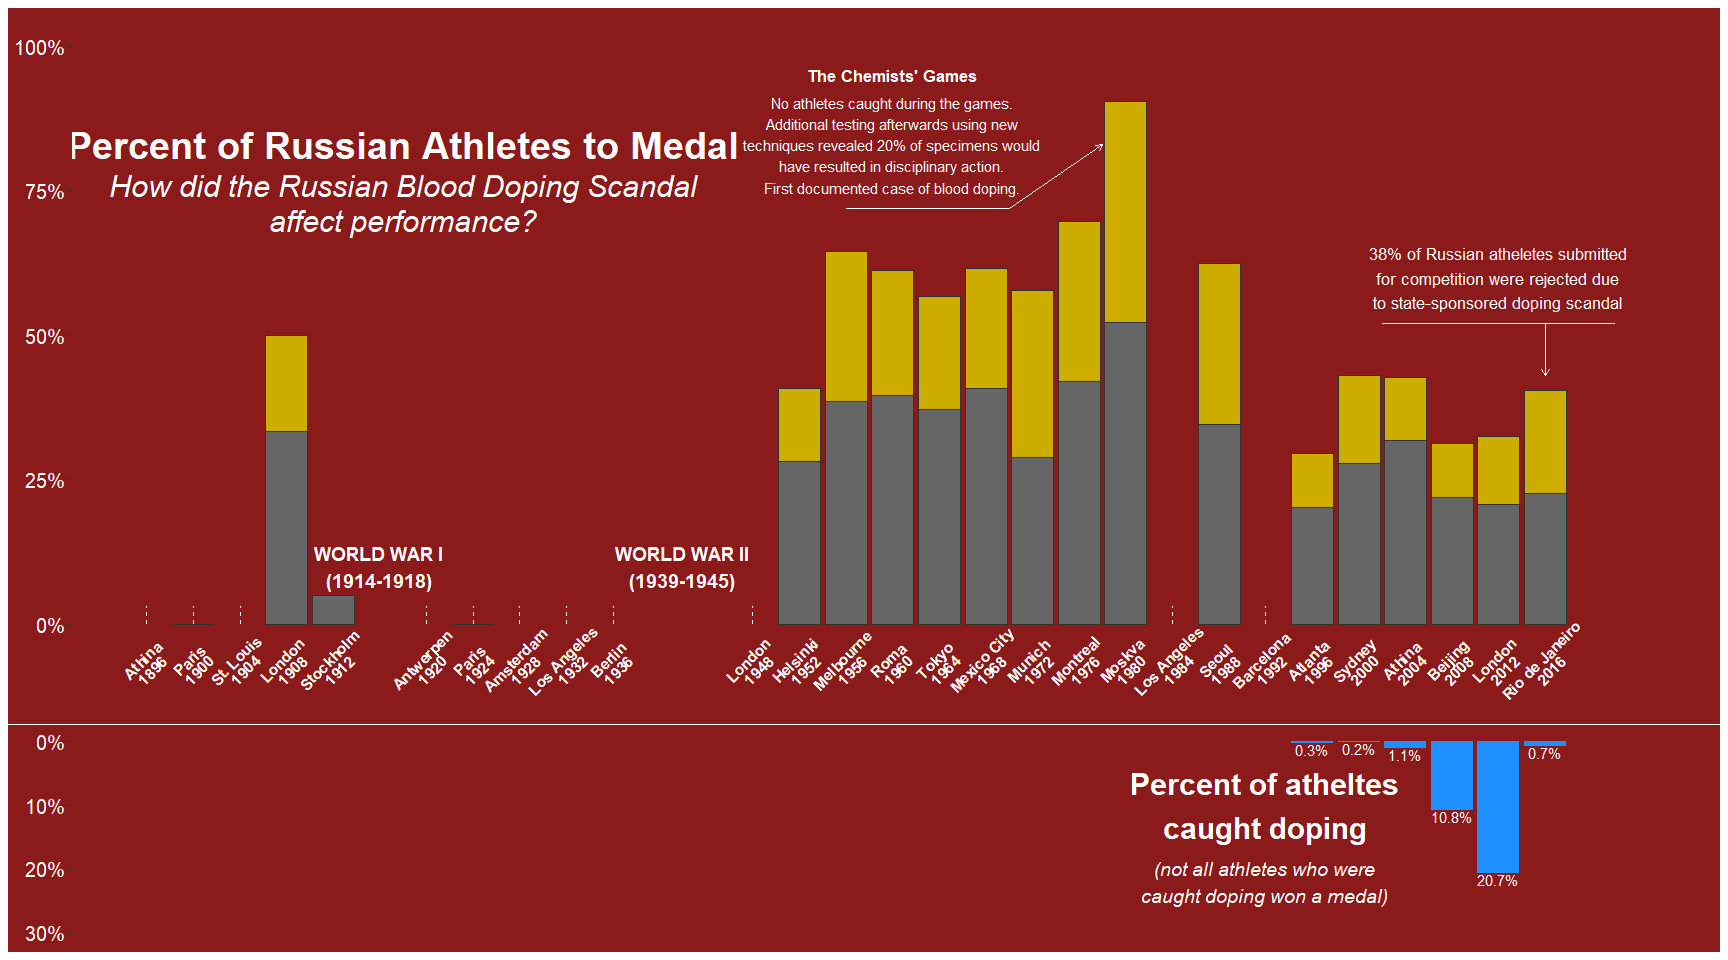
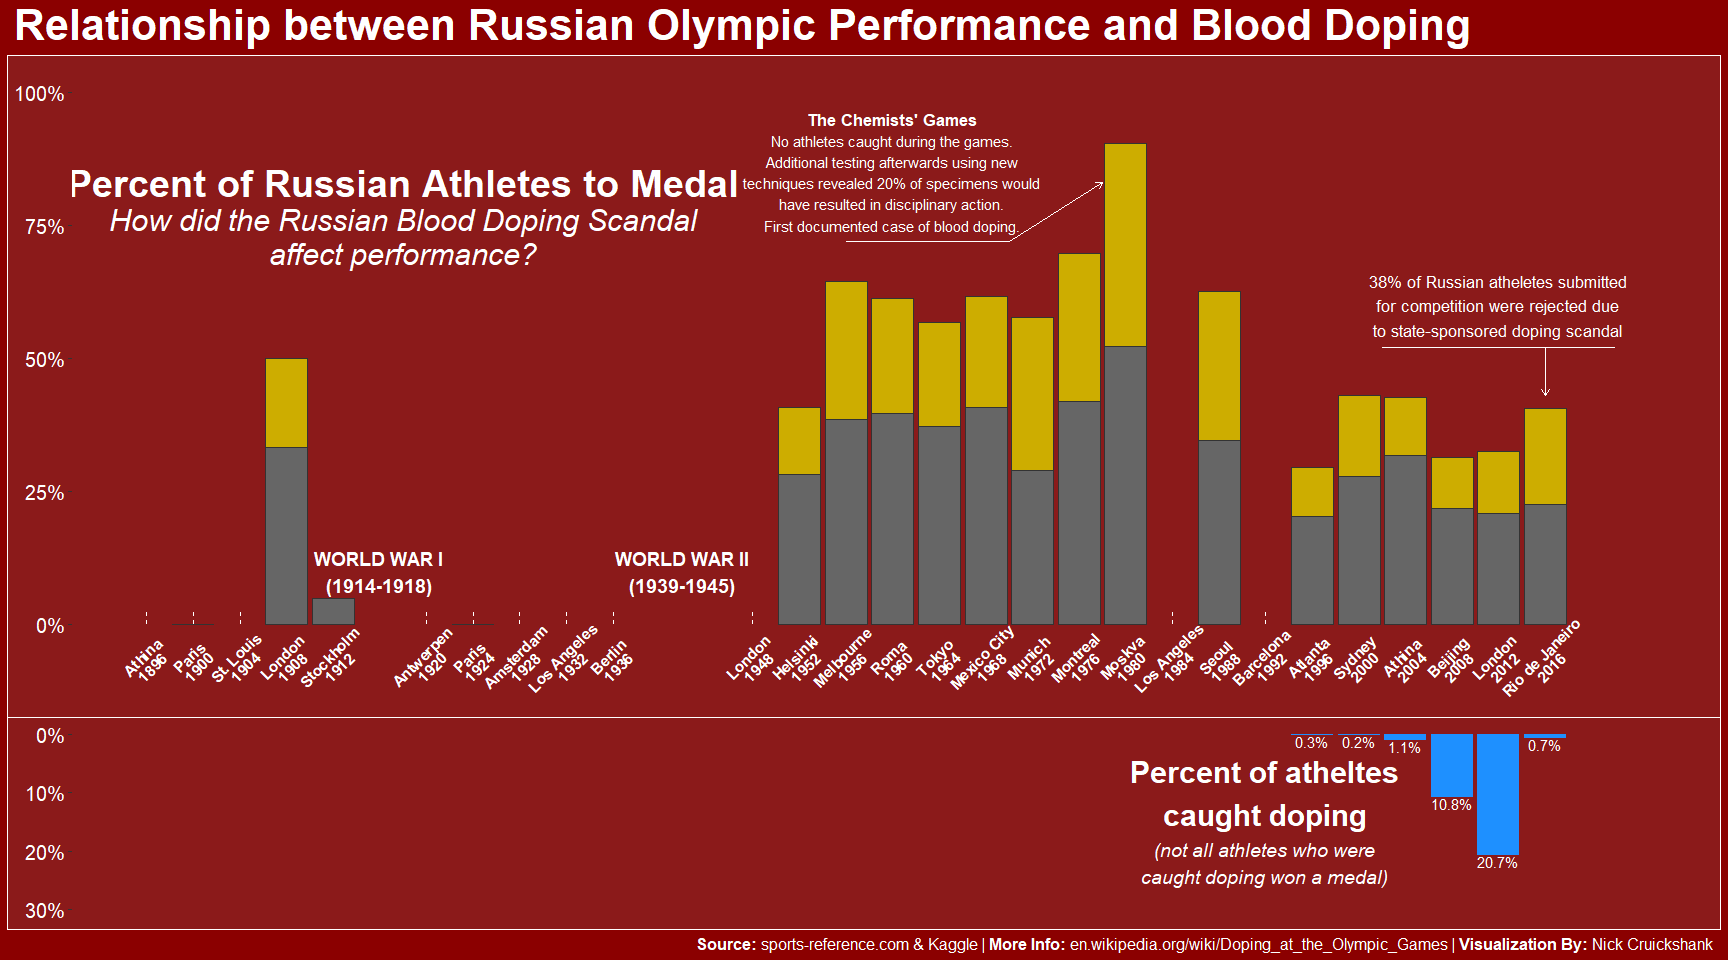
get a little farther in making plots
realized the blood doping file wanted to be a .xlsx rather than .csv

diff --git a/2021/20210727 - Olympics/20210727---Olympics.md b/2021/20210727 - Olympics/20210727---Olympics.md
@@ -14,6 +14,7 @@ library(ggtext)
 library(ggstream)
 library(patchwork)
 library(readr)
+library(readxl)
 library(stringi)
 library(tidyverse)
 ```
@@ -22,7 +23,7 @@ library(tidyverse)
 # data
 olympics <- readr::read_csv('https://raw.githubusercontent.com/rfordatascience/tidytuesday/master/data/2021/2021-07-27/olympics.csv')
 
-olympic_doping <- read_csv("olympic_doping.csv") %>%
+olympic_doping <- read_excel("olympic_doping.xlsx") %>%
   janitor::clean_names()
 ```
 
@@ -130,11 +131,7 @@ medal_plot <- rus %>%
     axis.ticks.x = element_blank(),
     plot.caption = element_markdown(color = "white", size = 12)
   )
-
-medal_plot
 ```
-
-![](20210727---Olympics_files/figure-gfm/Russian%20Medals%20by%20Blood%20Doping-1.png)<!-- -->
 
   - Embellish this plot with historical info at relevant bars
       - Russia has had the most medals stripped of any country (13
@@ -199,16 +196,41 @@ dope_plot <- dope %>%
     axis.text.x = element_blank(),
     axis.ticks.x = element_blank(),
   )
-
-
-dope_plot
 ```
-
-![](20210727---Olympics_files/figure-gfm/unnamed-chunk-3-1.png)<!-- -->
 
 ``` r
 # pie chart of which drugs used by dopers
 ## will likely need to tidy 'anti_doping_rule_violation' column and separate_rows()
+rus_drugs <- dope %>%
+  filter(!(is.na(anti_doping_rule_violation))) %>%
+  mutate(
+    anti_doping_rule_violation = str_remove(anti_doping_rule_violation, "\\s*\\([^\\)]+\\)")
+  ) %>%
+  separate_rows(anti_doping_rule_violation, sep = "(,|&|\\sor |\\sand)") %>%
+  mutate(anti_doping_rule_violation = str_trim(anti_doping_rule_violation))
+  
+# get the most common drugs
+top_drugs <- rus_drugs %>%
+  count(anti_doping_rule_violation, sort = TRUE) %>%
+  head(3) %>%
+  pull(anti_doping_rule_violation)
+
+rus_drugs2 <- rus_drugs %>%
+  mutate(
+    drug = fct_other(anti_doping_rule_violation, keep = top_drugs, other_level = "Other"),
+    drug = str_to_title(drug)
+  )
+
+drug_pie <- rus_drugs2 %>%
+  count(drug, sort = TRUE) %>%
+  ggplot(aes(x = "", y = n, fill = drug)) + 
+  geom_col() + 
+  scale_fill_brewer() + 
+  coord_polar("y", start = 0) + 
+  labs(
+    fill = "Drug"
+  ) +
+  theme_void()
 ```
 
 ``` r
@@ -220,7 +242,16 @@ caption <- "**Source:** sports-reference.com & Kaggle  |  **More Info:** en.wiki
 
 medal_plot /
   dope_plot +
-  plot_layout(heights = c(10,3))
+  plot_layout(heights = c(10,3)) + 
+  plot_annotation(
+    title = "Relationship between Russian Olympic Performance and Blood Doping",
+    caption = caption,
+    theme = theme(
+      plot.background = element_rect(fill = "darkred", color = "darkred"),
+      plot.title = element_text(size = 32, color = "white", face = "bold"),
+      plot.caption = element_textbox(size = 12, color = "white"),
+    )
+  )
 ```
 
 ![](20210727---Olympics_files/figure-gfm/main%20plot-1.png)<!-- -->
